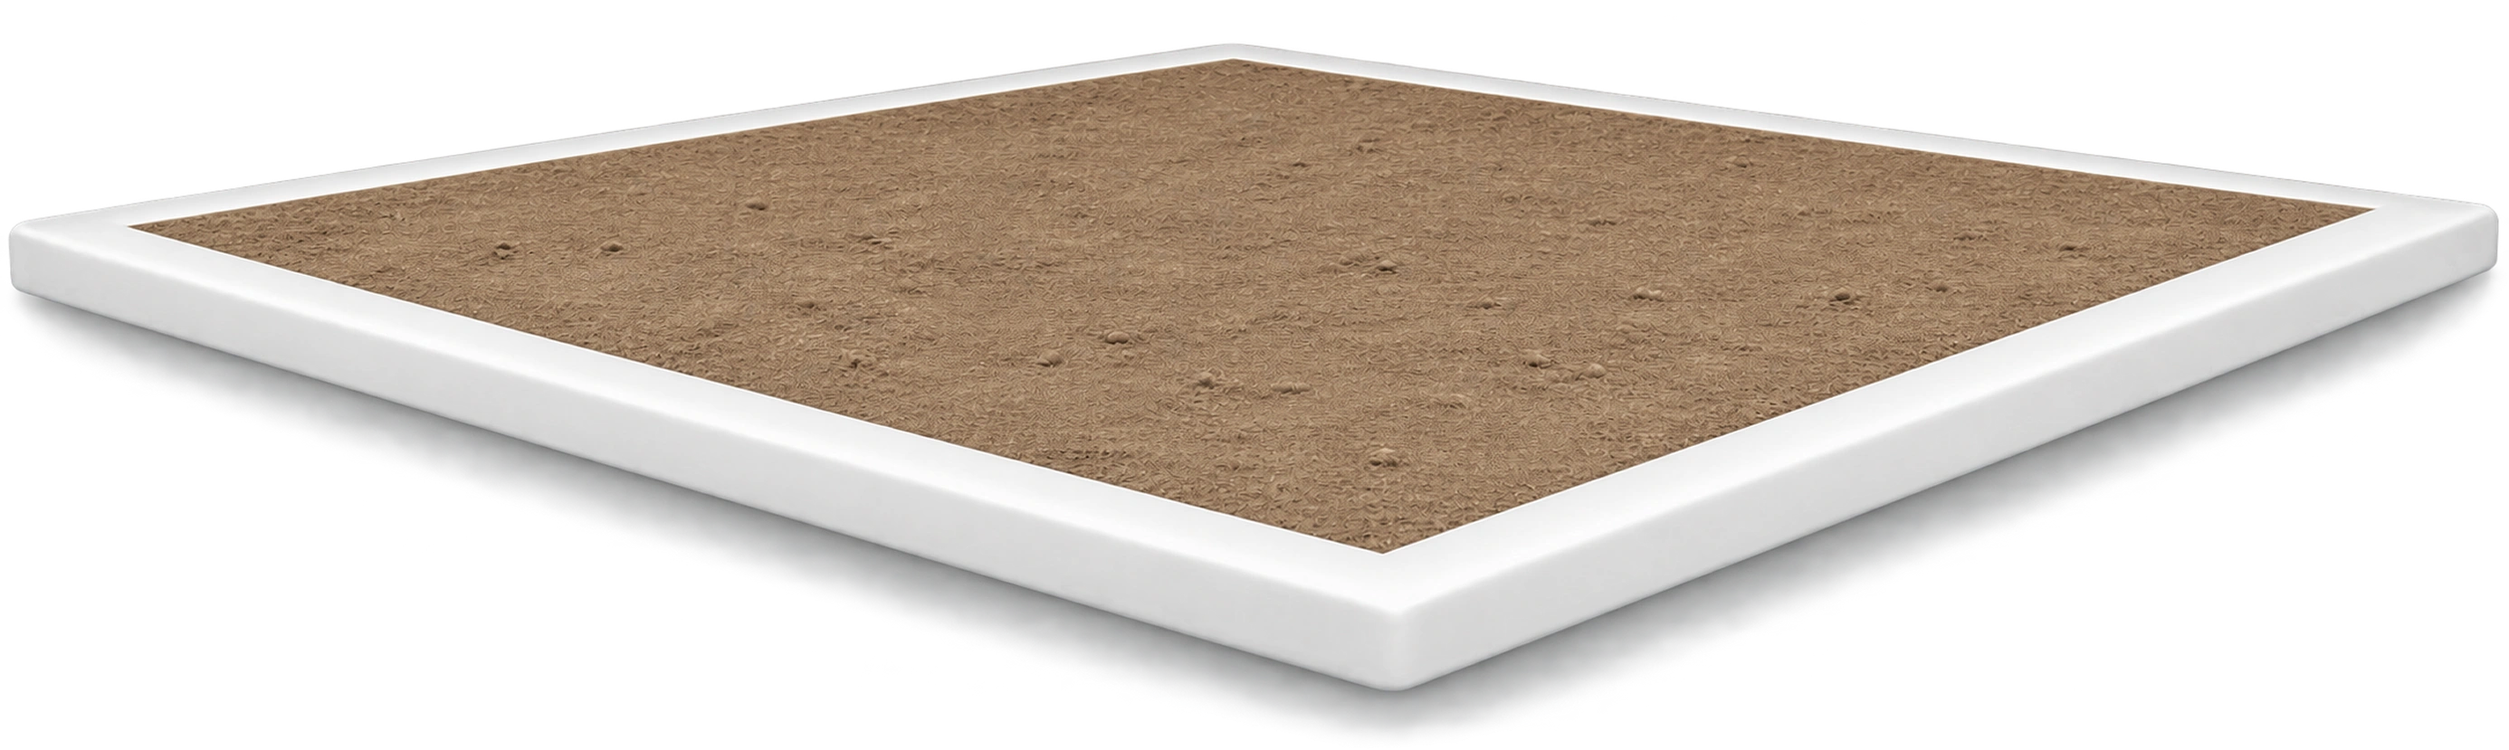
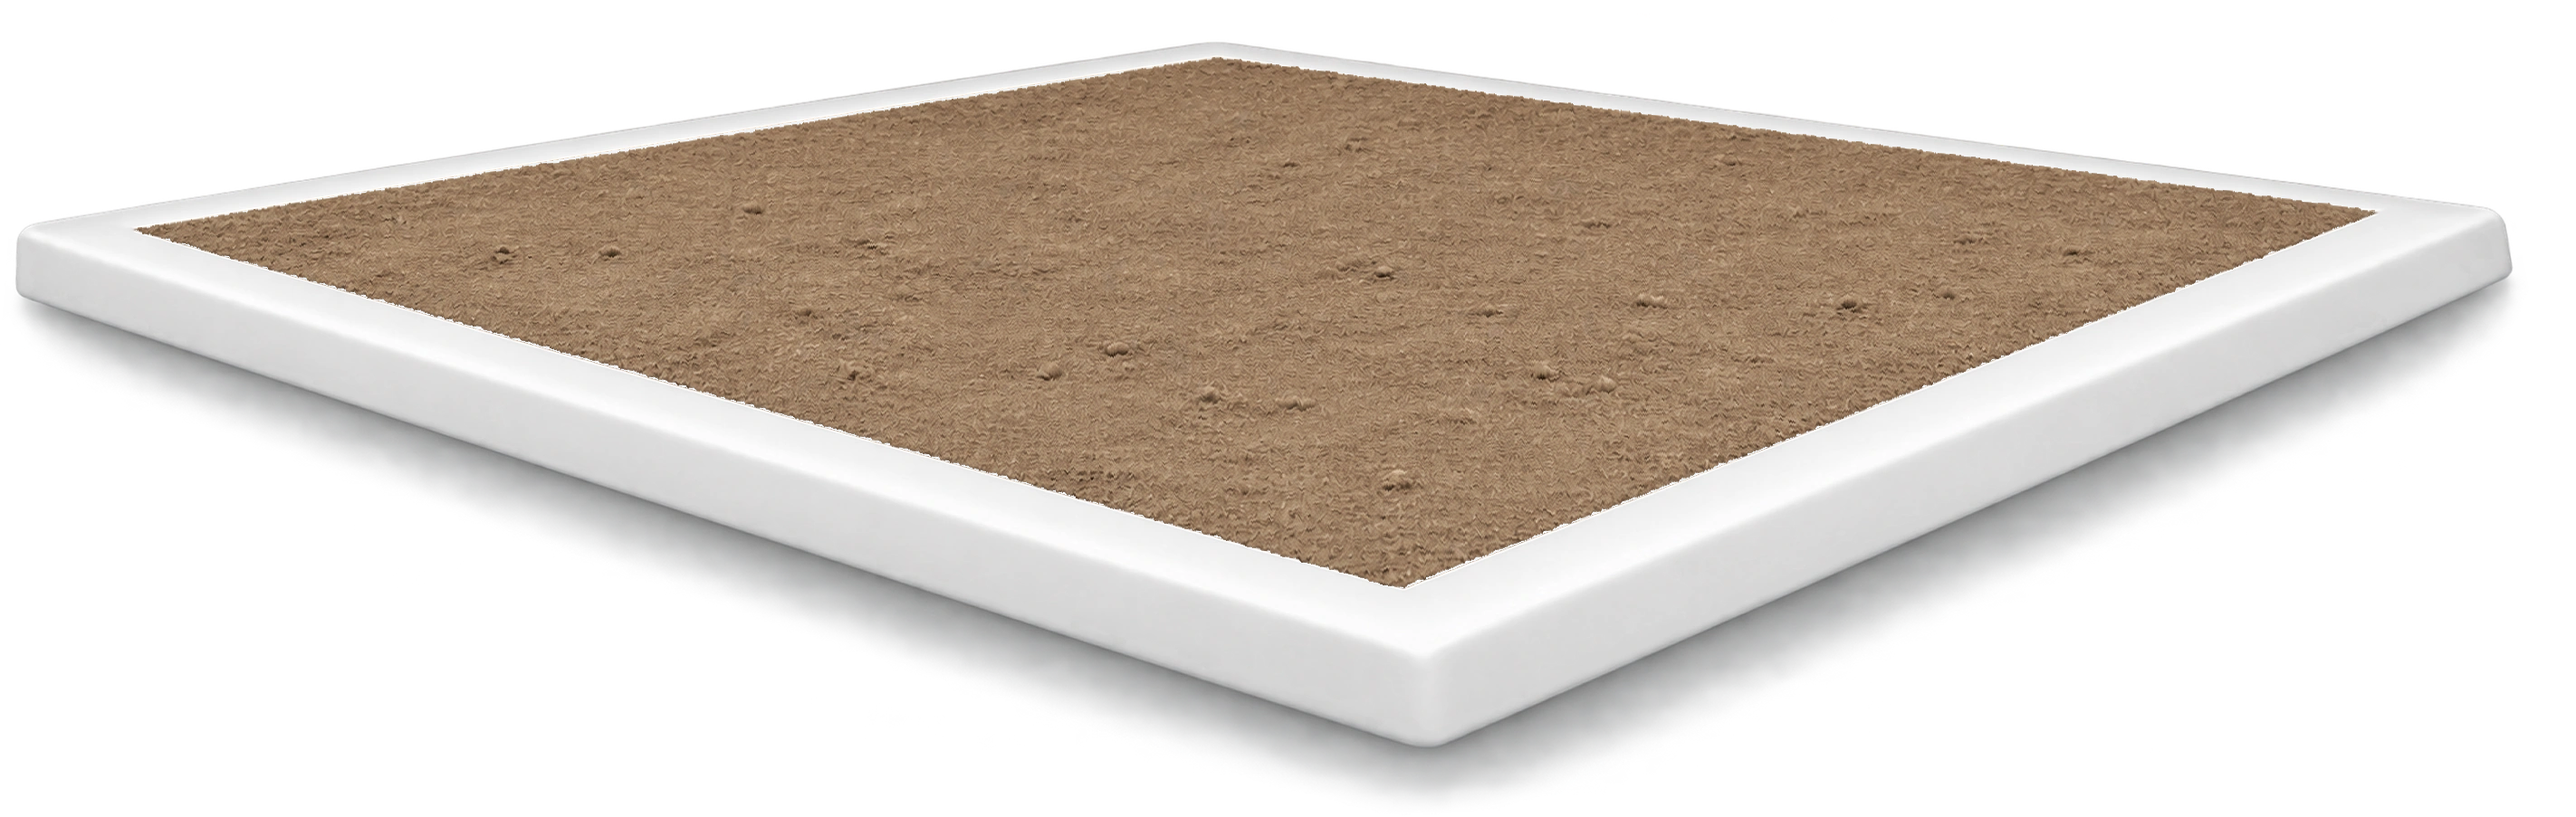
saf

diff --git a/js/hex.js b/js/hex.js
@@ -3317,7 +3317,7 @@ hexReady(function(){
       'pave01.webp':{originalWidth:3000,originalHeight:1854,x:777,y:727,width:1438,height:212},
       'pave02.webp':{originalWidth:3000,originalHeight:1854,x:283,y:832,width:1663,height:382},
       'pave03.webp':{originalWidth:3000,originalHeight:1854,x:1160,y:863,width:1595,height:497},
-      'plinth.webp':{originalWidth:3000,originalHeight:1854,x:126,y:710,width:2772,height:829},
+      'plinth.webp':{originalWidth:3000,originalHeight:1854,x:129,y:706,width:2845,height:903},
       'wall01.webp':{originalWidth:3000,originalHeight:1854,x:273,y:694,width:2483,height:273},
       'wall02.webp':{originalWidth:3000,originalHeight:1854,x:1323,y:768,width:684,height:323},
       'wall03.webp':{originalWidth:3000,originalHeight:1854,x:278,y:936,width:1063,height:236}
